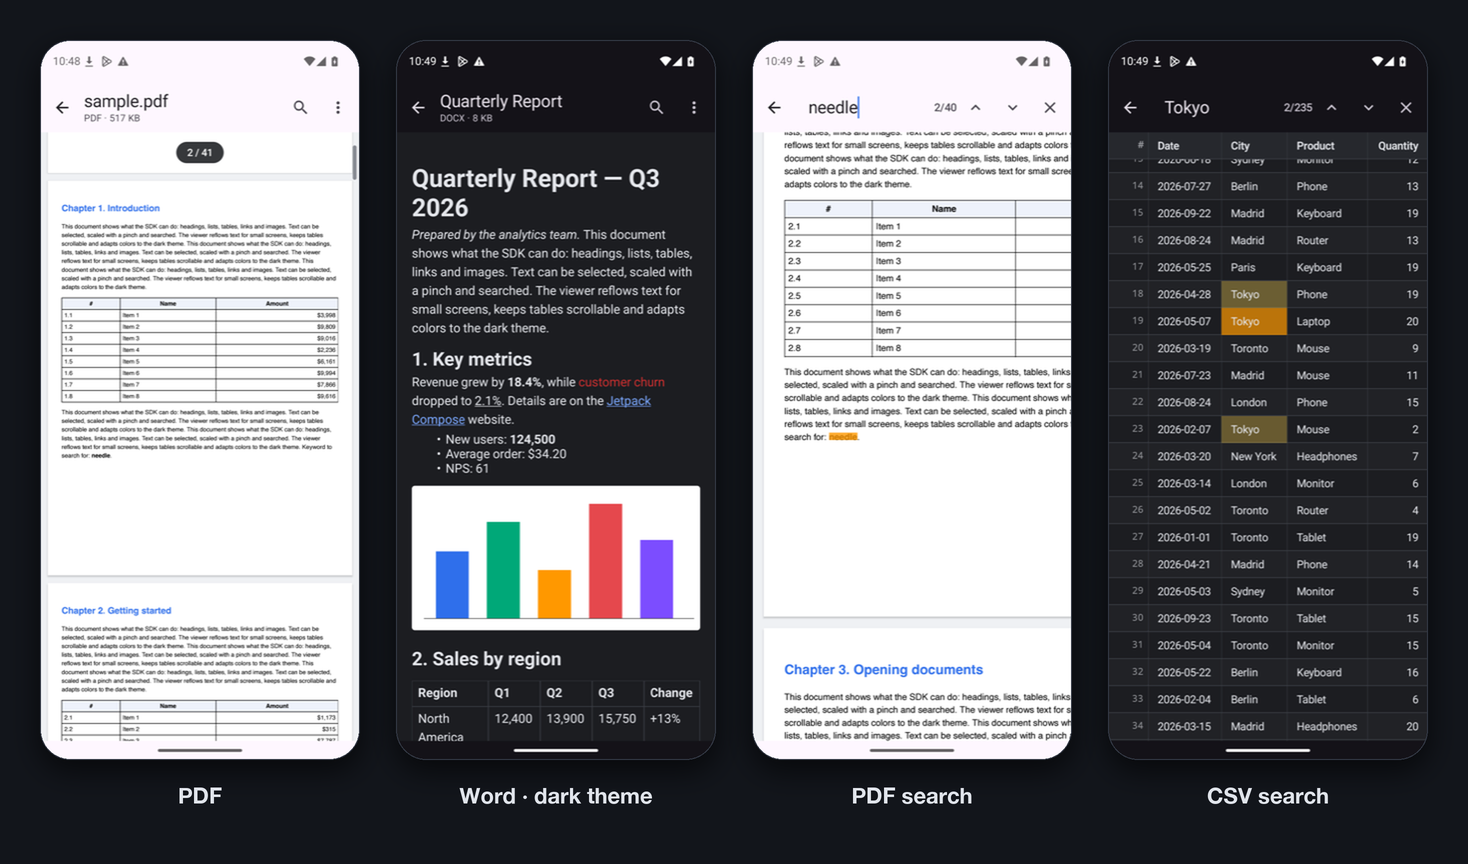
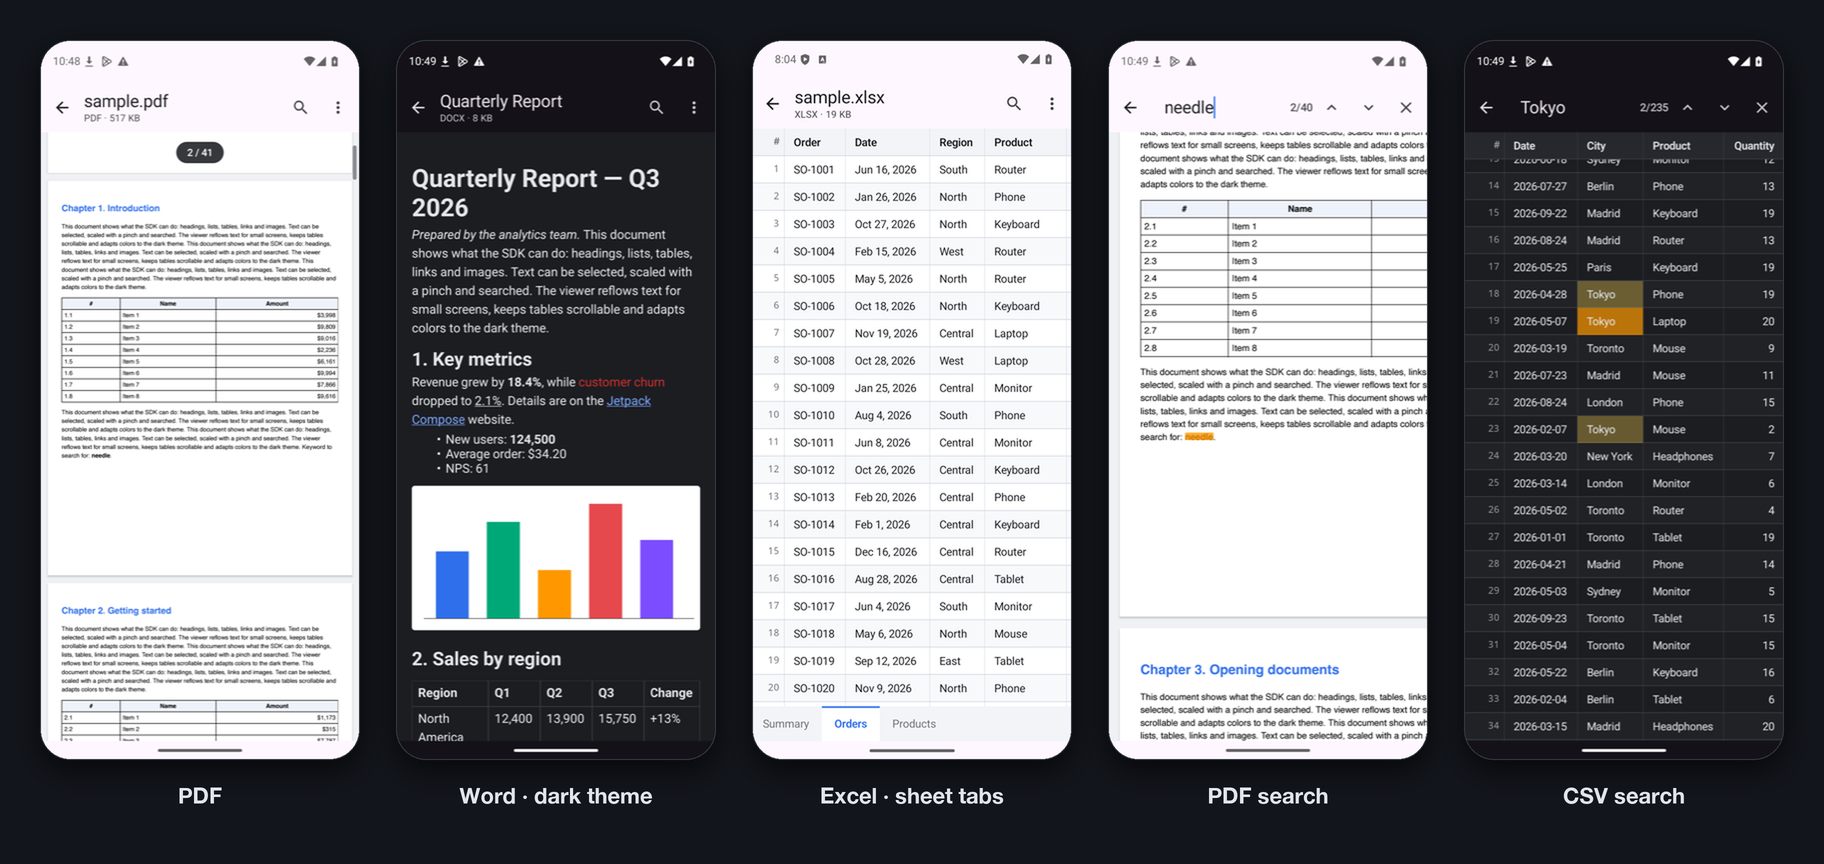
README: add the Excel workbook to the screen strip; sample tagline names Word and Excel

diff --git a/sample/src/main/kotlin/io/github/volovatovta/docviewer/sample/HomeScreen.kt b/sample/src/main/kotlin/io/github/volovatovta/docviewer/sample/HomeScreen.kt
@@ -64,7 +64,7 @@ internal fun HomeScreen(onOpen: (String) -> Unit, modifier: Modifier = Modifier)
         ) {
             item {
                 Text(
-                    text = "One component for PDF, DOCX, DOC, CSV and TXT — in Compose and in XML.",
+                    text = "One component for PDF, Word, Excel, CSV and TXT — in Compose and in XML.",
                     style = MaterialTheme.typography.bodyLarge,
                     color = MaterialTheme.colorScheme.onSurfaceVariant,
                     modifier = Modifier.padding(bottom = SampleDimens.SectionGap),

diff --git a/tools/make-showcase.py b/tools/make-showcase.py
@@ -4,7 +4,10 @@
 import sys
 from PIL import Image, ImageDraw, ImageFilter, ImageFont
 docs = sys.argv[1]
-shots = [("pdf", "PDF"), ("docx_dark", "Word · dark theme"), ("pdf_search", "PDF search"), ("csv_search", "CSV search")]
+shots = [
+    ("pdf", "PDF"), ("docx_dark", "Word · dark theme"), ("xlsx", "Excel · sheet tabs"),
+    ("pdf_search", "PDF search"), ("csv_search", "CSV search"),
+]
 S = 2                      # render at 2x for crisp edges, screenshots are scaled up from 320 px
 W, H = 320 * S, 720 * S
 GAP, PAD, RADIUS = 36 * S, 40 * S, 30 * S

diff --git a/README.md b/README.md
@@ -13,7 +13,7 @@ No WebView, no native libraries, no Apache POI: PDF pages are drawn by the platf
 
 <picture>
   <source media="(prefers-color-scheme: dark)" srcset="docs/showcase-dark.png">
-  <img alt="DocxView screens: a PDF, a Word document in the dark theme, PDF search and CSV search" src="docs/showcase-light.png">
+  <img alt="DocxView screens: a PDF, a Word document in the dark theme, an Excel workbook with sheet tabs, PDF search and CSV search" src="docs/showcase-light.png">
 </picture>
 
 ## Features
